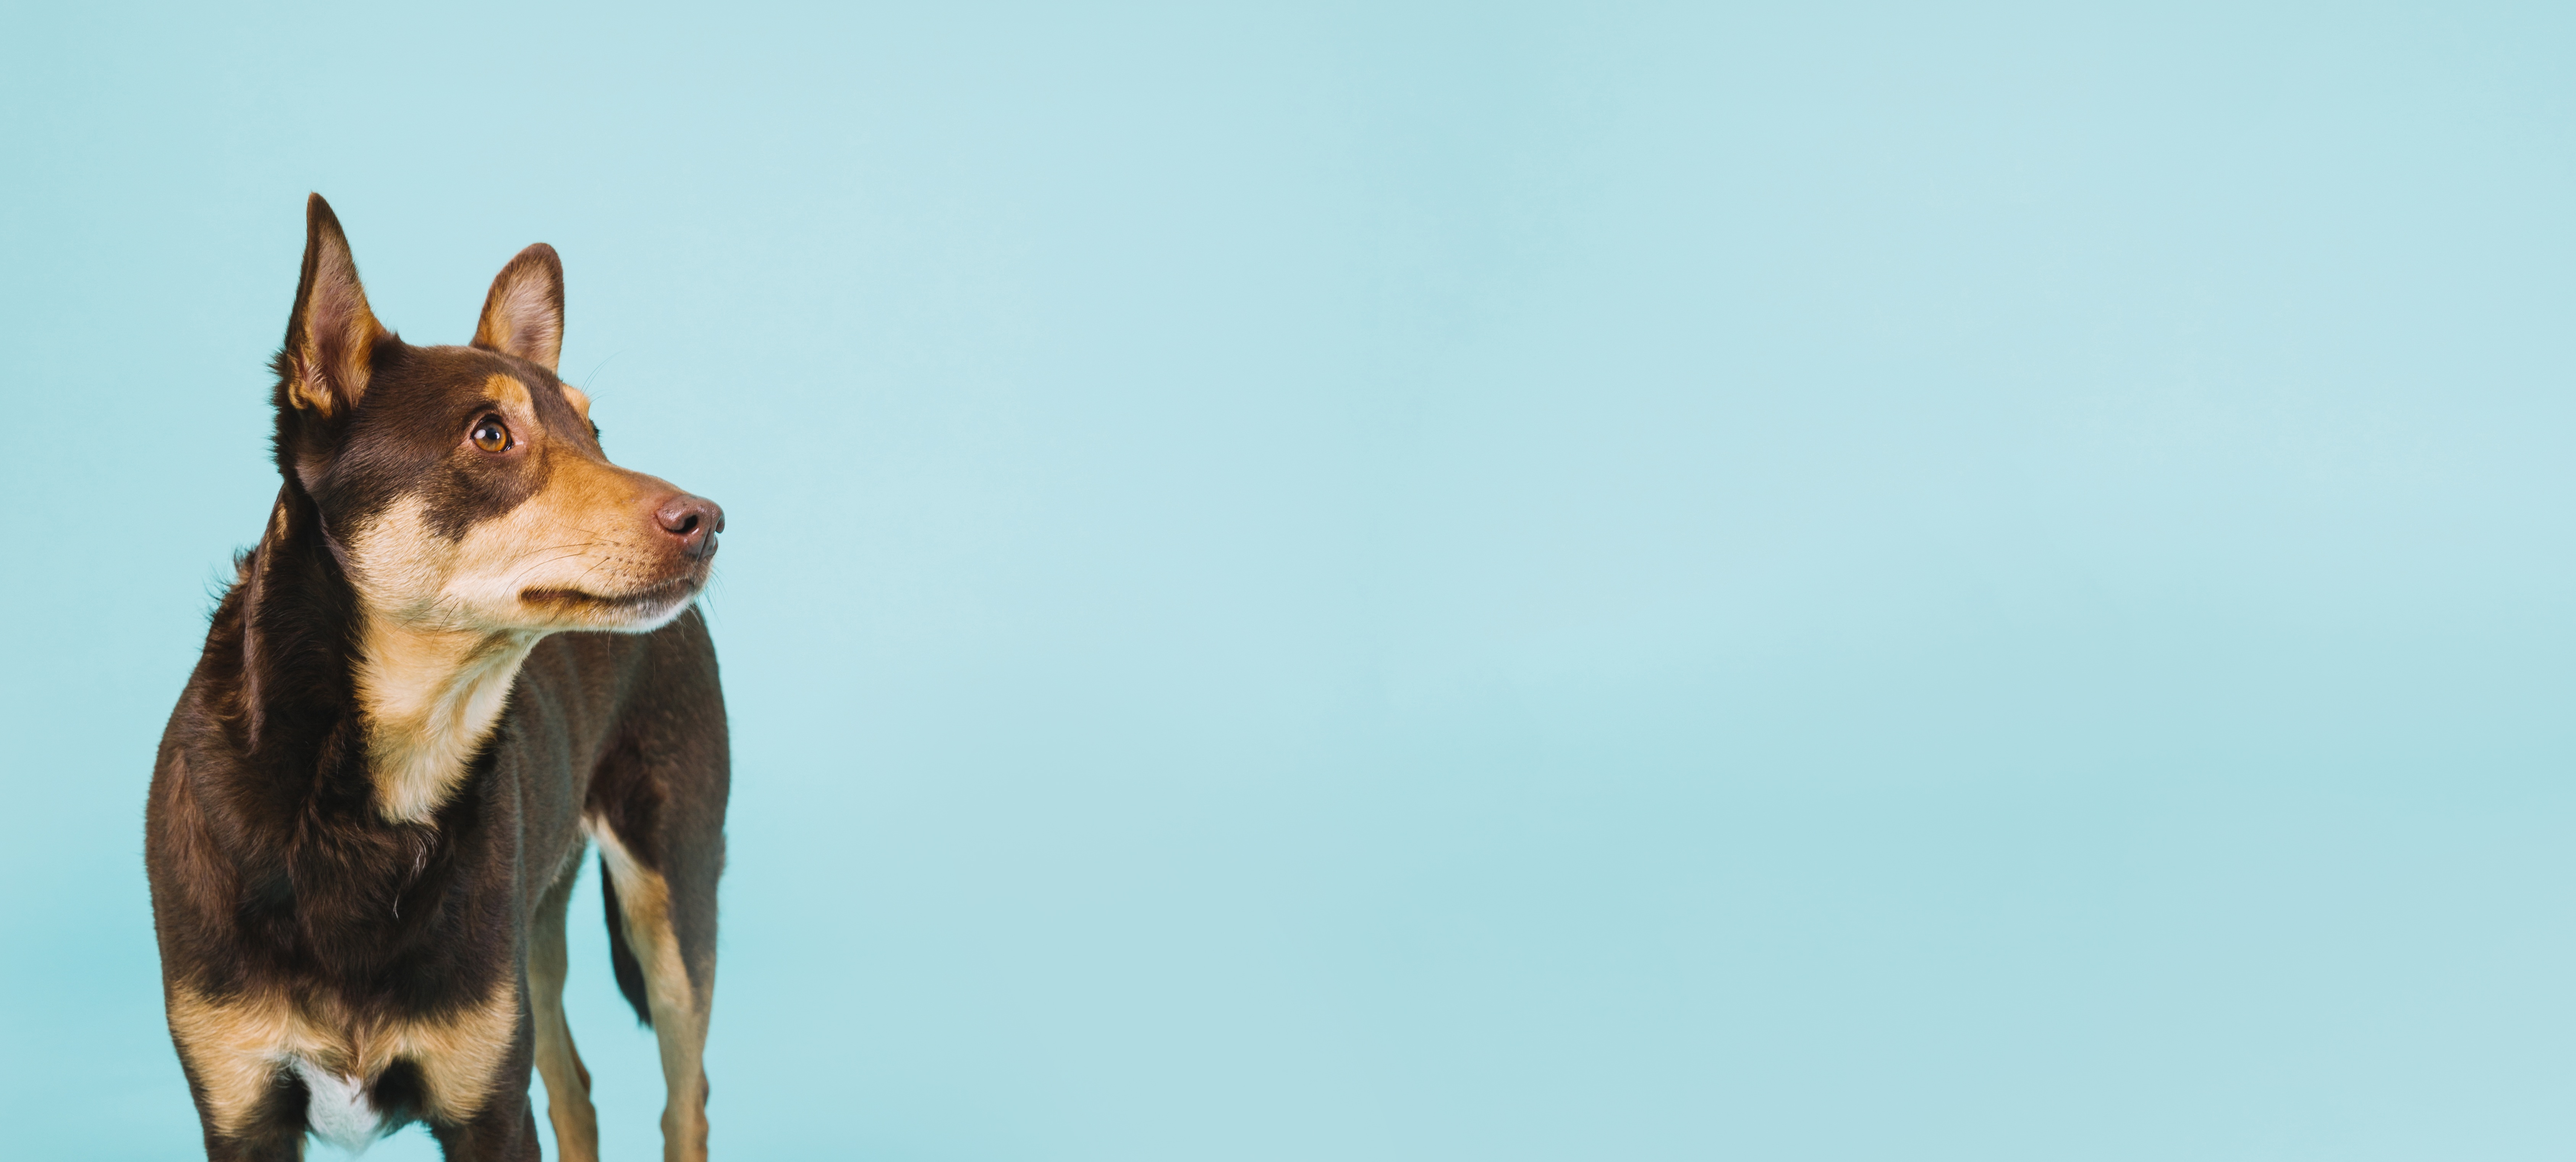
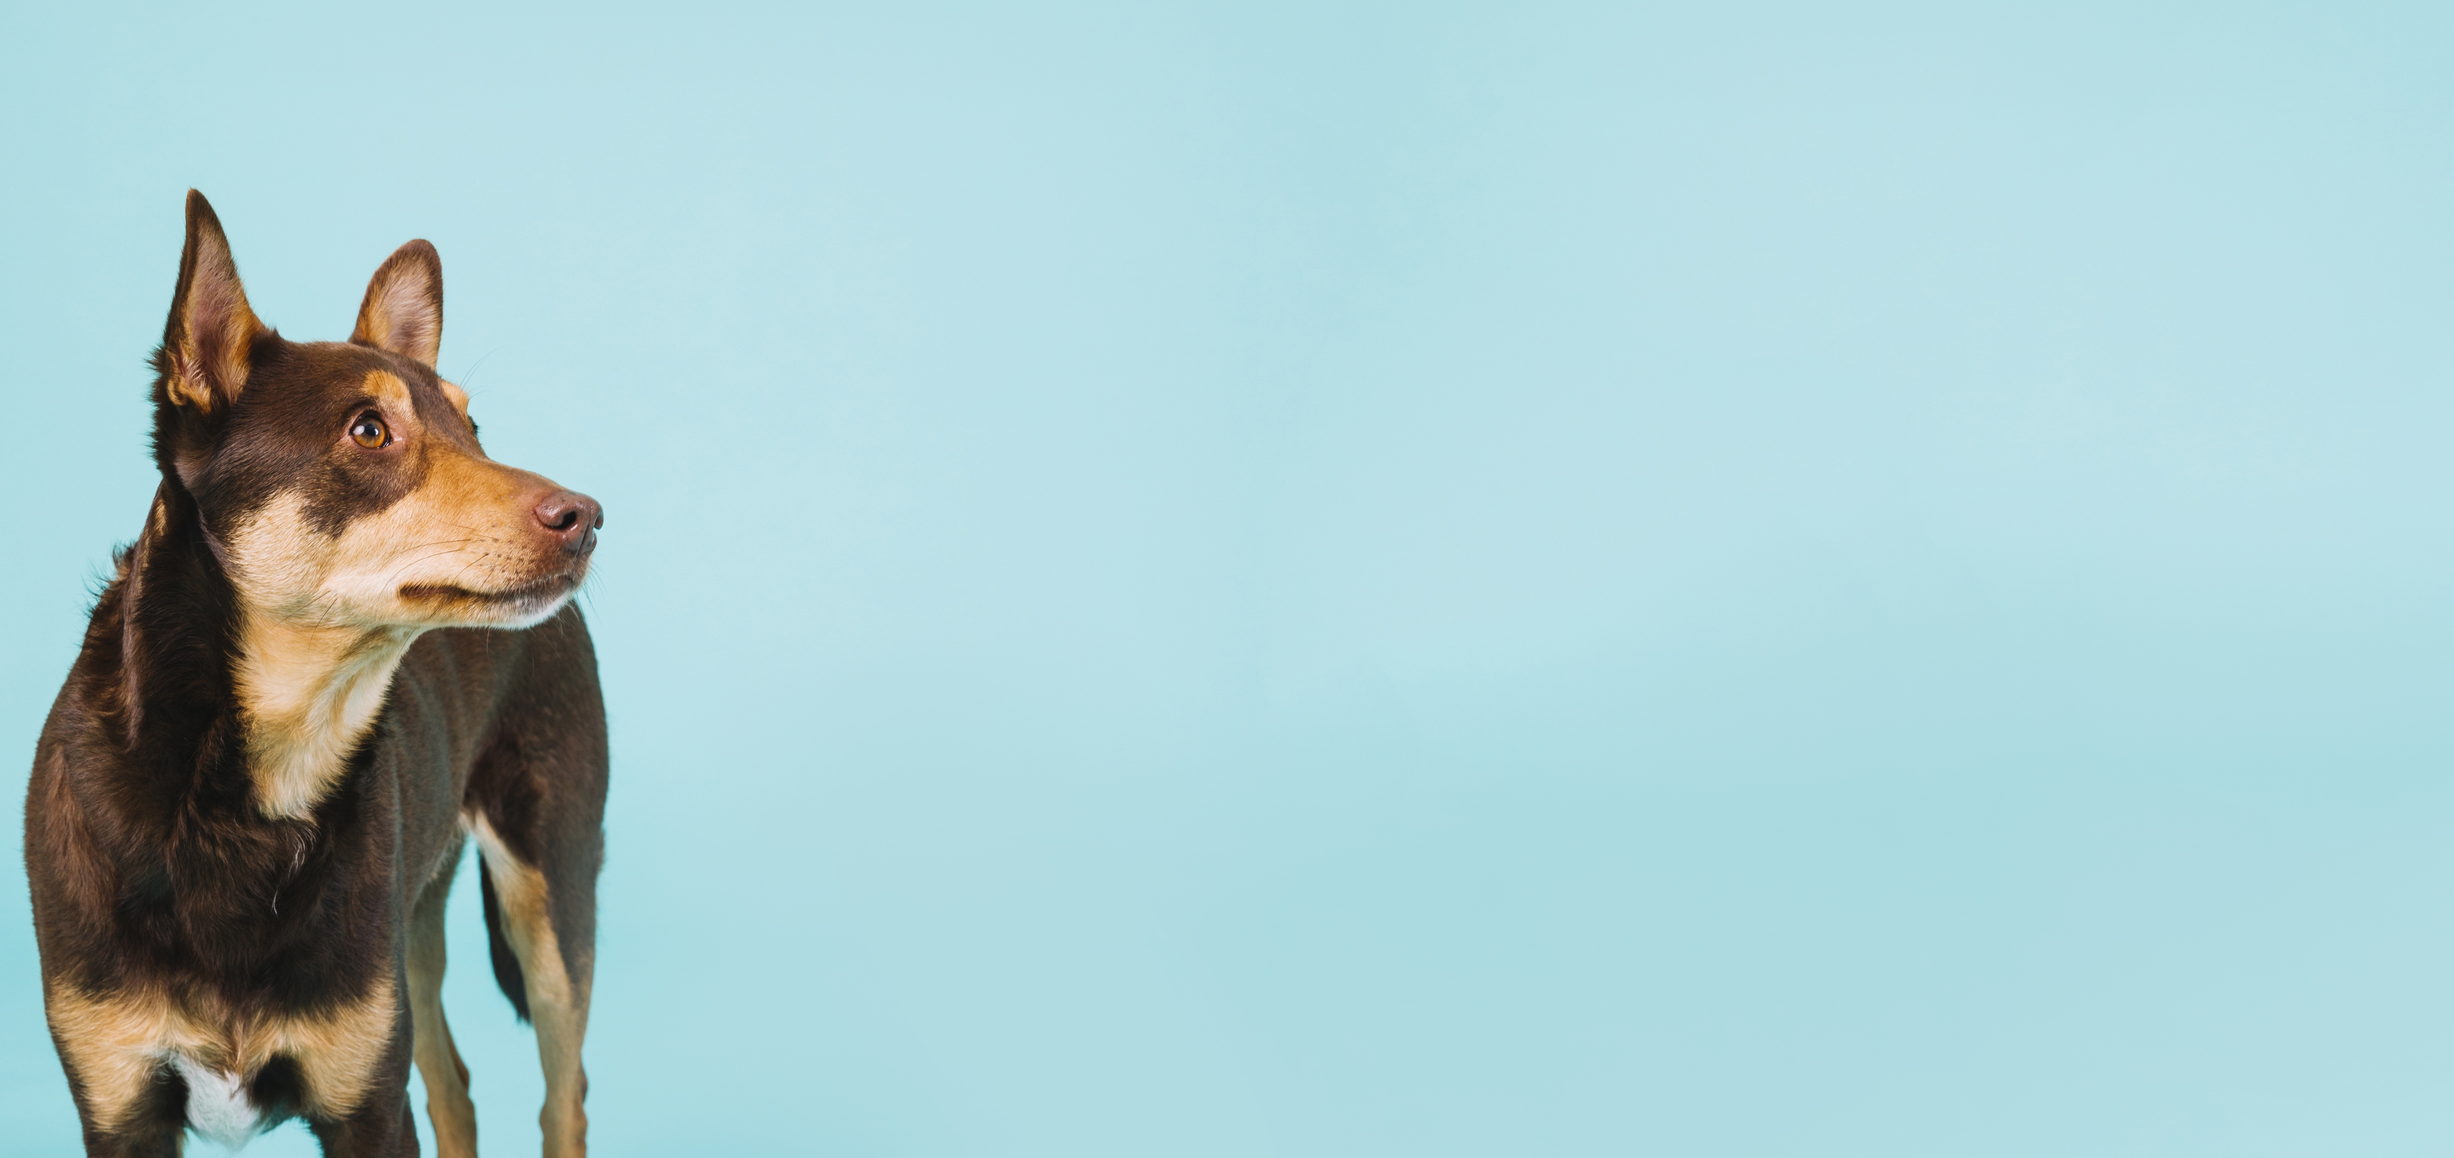
Tweak button styles and layout in templates; style CKEditor field in css

Changed region(s): [[0.0, 0.1549, 0.3112, 1.0]]

diff --git a/static/css/base.css b/static/css/base.css
@@ -11,7 +11,7 @@ html, body {
 body.home-page {
     background: url('/media/homepage_header.jpg') no-repeat center center fixed;
     background-size: cover;
-    background-position: 25% center;
+    background-position: 15% center;
     overflow: hidden; /* Stop page from scrolling on home page */
 }
 
@@ -139,7 +139,6 @@ header {
 }
 
 /* -------------------------------- Courses page */
-
 body.courses-page {
     background: white;
 }
@@ -208,7 +207,7 @@ body.courses-page {
 
 /* -------------------------------- Course Detail page */
 
-body.course-detail {
+/* body.course-detail {
     background: white;
 }
 
@@ -221,10 +220,17 @@ body.course-detail {
     padding-top: 5rem;
     padding-bottom: 5rem;
 
+} */
+
+/* -------------------------------- Add Course page */
+/* Fix for CKEditor making the page scroll */
+.cke, .cke_inner, .cke_contents {
+    height: auto !important;
+    max-height: none !important;
+    overflow: visible !important;
 }
 
-/* -------------------------------- Course Detail page */
-
+/* -------------------------------- Bundles page */
 .incl-courses-links {
     color: black;
     text-decoration: none;
@@ -234,8 +240,6 @@ body.course-detail {
     color: #227c9d;
     text-decoration: underline solid 1px !important;
 }
-
-/* -------------------------------- Bundles page */
 
 .saving-on-bundle {
     color: #f06543 !important;
@@ -251,7 +255,6 @@ body.course-detail {
 }
 
 /* -------------------------------- Cart page */
-
 /* class for the empty and not empty cart as well as the profile browse button */
 .cart-browse-btn,
 .profile-browse-btn {
@@ -301,7 +304,6 @@ a.secure-checkout-btn:focus {
 }
 
 /* -------------------------------- Media Queries */
-
 /* Slightly larger container on xl screens */
 @media (min-width: 1200px) {
   .container {
@@ -324,9 +326,3 @@ a.secure-checkout-btn:focus {
     }
 }
 
-/* Add in if any added content is hidden by the nav on mobile later */
-/* @media (max-width: 991px) {
-    body.courses-page {
-        padding-top: 116px;
-    }
-} */

diff --git a/cart/templates/cart/cart.html b/cart/templates/cart/cart.html
@@ -64,10 +64,10 @@
 
                             <!-- Buttons -->
                             <div class="d-flex flex-column flex-sm-row justify-content-end mt-3 gap-2">
-                                <a href="{% url 'courses' %}" class="btn btn-sm rounded-0 text-uppercase py-3 cart-browse-btn border border-black border-1">
+                                <a href="{% url 'courses' %}" class="btn btn-sm rounded-1 text-uppercase py-3 cart-browse-btn border border-black border-1">
                                 <i class="fa-solid fa-dog me-1"></i> Keep Browsing
                                 </a>
-                                <a href="{% url 'checkout' %}" class="btn btn-sm rounded-0 text-uppercase py-3 secure-checkout-btn border border-black border-1">
+                                <a href="{% url 'checkout' %}" class="btn btn-sm rounded-1 text-uppercase py-3 secure-checkout-btn border border-black border-1">
                                 <i class="fa-solid fa-lock me-1"></i> Secure Checkout
                                 </a>
                             </div>
@@ -75,7 +75,7 @@
                     </div>
                 {% else %}
                     <p class="lead mb-5">Your cart is empty</p>
-                    <a href="{% url 'courses' %}" class="btn btn-lg rounded-0 text-uppercase py-3 cart-browse-btn border border-black border-1">
+                    <a href="{% url 'courses' %}" class="btn btn-lg rounded-1 text-uppercase py-3 cart-browse-btn border border-black border-1">
                         <span class="icon">
                             <i class="fa-solid fa-dog"></i>
                         </span>

diff --git a/checkout/templates/checkout/checkout.html b/checkout/templates/checkout/checkout.html
@@ -112,7 +112,7 @@
 
                     <!-- Adjust cart button -->
                     <div class="submit-button text-end mt-5 mb-2">
-                        <a href="{% url 'view_cart' %}" class="btn btn-outline-dark rounded-0 adjust-cart-btn">
+                        <a href="{% url 'view_cart' %}" class="btn btn-outline-dark rounded-1 adjust-cart-btn">
                             <span class="icon"><i class="fa-solid fa-dog"></i></span>
                             <span class="fw-bold"> Adjust Cart</span>
                         </a>
@@ -120,7 +120,7 @@
                         <input type="hidden" name="client_secret" value="{{ client_secret }}">
 
                         <!-- Complete purchase button -->
-                        <button id="submit-button" class="btn btn-outline-dark rounded-0 complete-purchase-btn">
+                        <button id="submit-button" class="btn btn-outline-dark rounded-1 complete-purchase-btn">
                             <span class="icon"><i class="fas fa-lock"></i></span>
                             <span class="fw-bold"> Complete Purchase</span>
                         </button>

diff --git a/courses/templates/courses/course_detail.html b/courses/templates/courses/course_detail.html
@@ -20,6 +20,7 @@
             </div>
         </div>
     </div>
+    <hr>
 {% endblock %}
 
 
@@ -37,7 +38,7 @@
                     <form action="{% url 'add_to_cart' course.id %}" method="POST">
                         {% csrf_token %}
                         <input type="hidden" name="redirect_url" value="{{ request.path }}">
-                        <button type="submit" class="btn btn-lg rounded-0 text-uppercase py-3 border border-black border-1 add-to-cart-btn">
+                        <button type="submit" class="btn btn-lg rounded-1 text-uppercase py-3 border border-black border-1 add-to-cart-btn">
                            <i class="fa-solid fa-cart-shopping me-1"></i> Add to cart
                         </button>
                     </form>

diff --git a/profiles/templates/profiles/my_courses.html b/profiles/templates/profiles/my_courses.html
@@ -52,11 +52,11 @@
     {% else %}
         <p class="pb-3">You haven't purchased any courses yet.</p>
         <div class="d-flex justify-content-end mt-auto">
-        <a href="{% url 'courses' %}" class="btn btn-lg rounded-0 text-uppercase py-3 profile-browse-btn border border-black border-1">
+            <!-- Browse courses button -->
+            <a href="{% url 'courses' %}" class="btn btn-lg rounded-1 text-uppercase py-3 profile-browse-btn border border-black border-1">
             <span class="icon">
                 <i class="fa-solid fa-dog"></i>
             </span>
-            <!-- Browse courses button -->
             <span class="text-uppercase">Browse Courses</span>
         </a>
     {% endif %}

diff --git a/templates/404.html b/templates/404.html
@@ -8,7 +8,7 @@
         <img src="/media/sad_dog.png" alt="Sad pug">
         <h1 class="display-4">404 Page Not Found</h1>
         <p class="lead">Oops! We couldn't find this page.</p>
-        <a href="{% url 'home' %}" class="btn btn-lg rounded-0 text-uppercase py-3 border border-black border-1 browse-courses-button">
+        <a href="{% url 'home' %}" class="btn btn-lg rounded-1 text-uppercase py-3 border border-black border-1 browse-courses-button">
             <i class="fa-solid fa-house"></i>
             Back to Home page
         </a>

diff --git a/checkout/templates/checkout/checkout_success.html b/checkout/templates/checkout/checkout_success.html
@@ -29,7 +29,7 @@
 
         <div class="row mt-5">
             <div class="col">
-                <a href="{% url 'courses' %}" class="btn btn-outline-dark rounded-0 adjust-cart-btn">
+                <a href="{% url 'courses' %}" class="btn btn-outline-dark rounded-1 adjust-cart-btn">
                     <i class="fa-solid fa-dog"></i> Back to Courses
                 </a>
             </div>

diff --git a/checkout/webhook_handler.py b/checkout/webhook_handler.py
@@ -66,7 +66,9 @@ class StripeWH_Handler:
                     email__iexact=billing_details.email,
                     full_name__iexact=billing_details.name,
                     street_address1__iexact=billing_details.address.line1,
-                    street_address2__iexact=billing_details.address.line2 or "",
+                    street_address2__iexact=(
+                        billing_details.address.line2 or ""
+                        ),
                     city__iexact=billing_details.address.city,
                     postcode__iexact=billing_details.address.postal_code,
                     country__iexact=billing_details.address.country,
